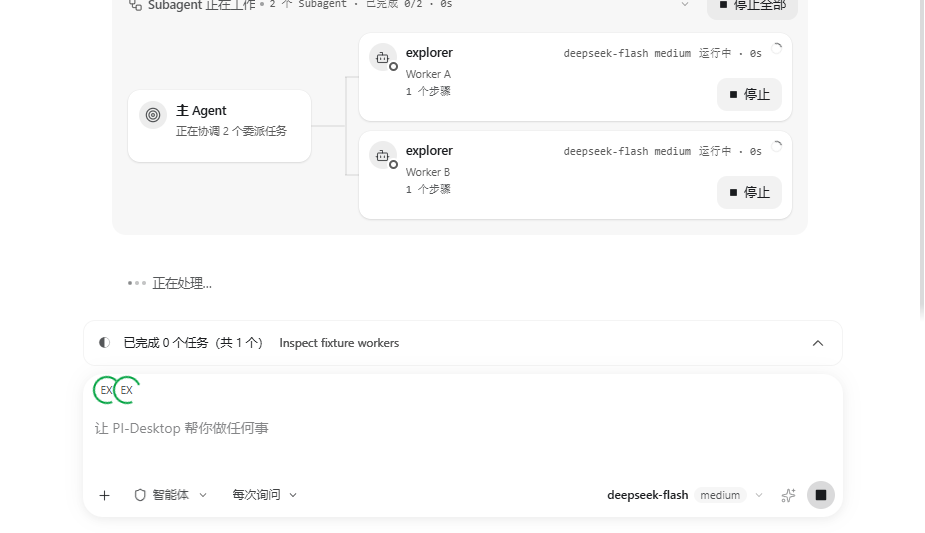
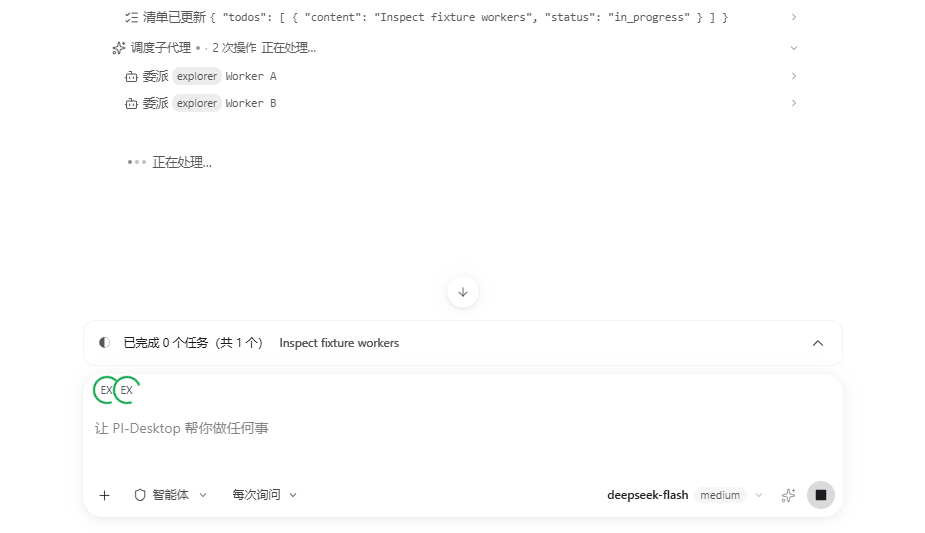
fix(composer): make subagent presentations mutually exclusive
When the composer bar is selected, keep each Task as an expandable tool
record instead of repeating its topology or worker transcript. Switching
back restores the existing cards without changing the underlying history.

Verify the transition on real running delegates, including after they
settle, and record both presentations in the localized copy and captures.

diff --git a/apps/desktop/src/features/chat/transcript/ActivityItems.tsx b/apps/desktop/src/features/chat/transcript/ActivityItems.tsx
@@ -30,6 +30,7 @@ type ActivityItemsProps = {
 
 type ActivityItemBlockProps = Omit<ActivityItemsProps, "items" | "delegateItems" | "delegationStatuses" | "delegationTimings"> & {
   block: RenderBlock<AssistantActivityItem>;
+  groupDelegates: boolean;
   topologyItem?: AssistantActivityItem;
   delegateItems?: DelegationActivityItem[];
   delegationStatuses?: ReadonlyMap<string, SubagentOutcome>;
@@ -37,7 +38,7 @@ type ActivityItemBlockProps = Omit<ActivityItemsProps, "items" | "delegateItems"
 };
 
 const ActivityItemBlock = memo(function ActivityItemBlock({
-  block, isActive, live, topologyItem,
+  block, isActive, live, groupDelegates, topologyItem,
   delegateItems, delegationStatuses, delegationTimings, onUserInteraction,
   collapseThinking,
 }: ActivityItemBlockProps) {
@@ -45,7 +46,7 @@ const ActivityItemBlock = memo(function ActivityItemBlock({
     // The topology predicate narrows to all tools, but a false result can still
     // be an ordinary tool. Do not exclude tools from the remaining branches.
     const delegation = Boolean(isDelegationActivityItem(item));
-    if (delegation) {
+    if (groupDelegates && delegation) {
       if (item !== topologyItem || !delegateItems) return null;
       return <SubagentTopology
         key="subagent-topology"
@@ -72,7 +73,7 @@ const ActivityItemBlock = memo(function ActivityItemBlock({
         imagesInTurn
         message={item.message}
         onUserInteraction={onUserInteraction}
-        {...(item.delegate ? { delegate: item.delegate } : {})}
+        {...(!delegation && item.delegate ? { delegate: item.delegate } : {})}
       />;
     }
     if (item.kind === "hostedSearch") return <HostedSearchRow
@@ -106,6 +107,7 @@ export const ActivityItems = memo(function ActivityItems({ items, ...context }: 
       block={block}
       isActive={context.isActive}
       live={context.live}
+      groupDelegates={topologyItem !== undefined}
       topologyItem={ownsTopology ? topologyItem : undefined}
       delegateItems={ownsTopology ? context.delegateItems : undefined}
       delegationStatuses={ownsTopology ? context.delegationStatuses : undefined}

diff --git a/apps/desktop/src/features/chat/transcript/ActivityGroup.tsx b/apps/desktop/src/features/chat/transcript/ActivityGroup.tsx
@@ -22,6 +22,7 @@ import type {
 } from "@pi-desktop/shared";
 import {
   PROVIDER_RETRY_MAX_RETRIES,
+  resolveSubagentStyle,
 } from "@pi-desktop/shared";
 import type {
   AssistantActivityItem,
@@ -218,7 +219,8 @@ export const ActivityGroup = memo(function ActivityGroup({
   const collapseThinking = useAppStore((state) => resolveAutoCollapseThinking(state.settings));
   const { t } = useTranslation();
   const detailsId = useId();
-  const rawDelegateItems = useMemo(() => items.filter(isDelegationActivityItem), [items]);
+  const inlineTopology = useAppStore((state) => resolveSubagentStyle(state.settings) === "transcript");
+  const rawDelegateItems = useMemo(() => inlineTopology ? items.filter(isDelegationActivityItem) : [], [inlineTopology, items]);
   const delegatesRef = useRef(rawDelegateItems);
   const delegateItems = reuseReferences(delegatesRef.current, rawDelegateItems);
   delegatesRef.current = delegateItems;
@@ -227,10 +229,7 @@ export const ActivityGroup = memo(function ActivityGroup({
   const tools = reuseReferences(toolsRef.current, rawTools);
   toolsRef.current = tools;
   const delegationItems = useMemo(() => tools.map((message) => ({ kind: "tool" as const, message })), [tools]);
-  // One delegation reads the same as five: the card is how a delegation is
-  // presented, not a treatment reserved for fan-out. A lone `Task` rendered as
-  // an ordinary tool row hid the outcome, runtime and step count that the card
-  // states outright, and made the same work look like two different features.
+  // A lone delegate receives the same topology treatment as fan-out in transcript mode.
   const hasSubagentTopology = delegateItems.length > 0;
   // `Task` rows only ever say "running"; the turn's TaskWait/TaskList/TaskStop
   // rows carry how each delegate actually ended (ADR 0089). When the lifecycle

diff --git a/packages/shared/src/types/settings.ts b/packages/shared/src/types/settings.ts
@@ -40,11 +40,13 @@ export type CloseBehavior = "ask" | "tray" | "quit";
 export type TranscriptDisplayMode = "flat" | "command-first" | "fully-folded";
 
 /**
- * Where a running subagent is presented while it works (issue #2549).
+ * How subagents are presented (issue #2549).
  *
- * - `transcript`: delegates stay in the conversation transcript only.
- * - `bar`: a session-scoped avatar row above the composer mirrors the running
- *   delegates; topology cards, lifecycle rows and Work panel tabs stay put.
+ * - `transcript` (default): delegation cards show the topology in the transcript.
+ * - `bar`: a session-scoped avatar row appears above the composer while work is
+ *   active. The transcript uses ordinary expandable tool rows in place of cards,
+ *   including after settlement. Tool history, lifecycle rows and Work panel
+ *   records remain available.
  *
  * Presentation only: neither value changes what a delegate does or what the
  * host executes.
@@ -270,11 +272,8 @@ export type AppSettings = {
    */
   inlineVisualizations?: boolean;
   /**
-   * How a running subagent is presented (issue #2549): `transcript` keeps
-   * delegates in the conversation transcript only, `bar` adds a session-scoped
-   * avatar row above the composer. Absent and any unknown value read as
-   * `transcript`, so the field is written only when the user picks the bar;
-   * reading a missing field never persists the default. Presentation only.
+   * Subagent presentation; see `SubagentStyle`. An absent or unknown value
+   * reads as `transcript`; reading a missing field never persists the default.
    */
   subagentStyle?: SubagentStyle;
   /**

diff --git a/packages/shared/src/changelog-fr.ts b/packages/shared/src/changelog-fr.ts
@@ -5,7 +5,7 @@ export const frEntries: ChangelogEntry[] = [
     version: "0.24.0",
     date: "2026-11-20",
     highlights: [
-      "Activez la barre au-dessus du champ de saisie dans les réglages de conversation pour consulter l’état, la consommation et le journal des sous-agents sans faire défiler la conversation.",
+      "Dans les réglages de conversation, choisissez Barre de saisie pour suivre les sous-agents actifs au-dessus du champ de saisie. Les appels d’outils se présentent sous forme de lignes dépliables plutôt que de fiches, même après la fin de l’exécution.",
       "Sur une nouvelle installation, le plugin intégré Améliorations officielles génère automatiquement les titres de session ; les suggestions, l'amélioration des brouillons et la mémoire IA restent désactivées jusqu'à ce que vous les activiez.",
       "Nouvelle tâche ouvre désormais une discussion temporaire hors de tout projet, et les conversations peuvent passer d'un projet à l'autre ou revenir en Discussion temporaire.",
       "Sur l'accueil vide, cliquez sur le nom du projet ou sur « temporairement » dans le titre pour changer de projet ; la destination sans projet s'appelle désormais partout Discussion temporaire.",

diff --git a/packages/shared/src/changelog-ko.ts b/packages/shared/src/changelog-ko.ts
@@ -5,7 +5,7 @@ export const koEntries: ChangelogEntry[] = [
     version: "0.24.0",
     date: "2026-11-20",
     highlights: [
-      "대화 설정에서 입력창 표시줄을 선택하면 대화를 스크롤하지 않고도 하위 에이전트의 상태와 사용량을 확인하고 실행 기록을 열 수 있습니다.",
+      "대화 설정에서 입력창 표시줄을 선택하면 입력창 위에서 실행 중인 하위 에이전트를 확인할 수 있습니다. 대화에는 카드 대신 펼칠 수 있는 도구 호출 행이 표시되며, 실행이 끝나도 이 형식이 유지됩니다.",
       "새로 설치하면 기본 제공되는 공식 개선 플러그인이 세션 제목을 자동으로 만듭니다. 제안, 초안 개선, AI 메모리는 직접 켜기 전까지 꺼져 있습니다.",
       "새 작업이 이제 프로젝트 밖에서 임시 채팅으로 시작되며, 대화를 프로젝트 간에 옮기거나 임시 채팅으로 되돌릴 수 있습니다.",
       "빈 홈 화면 제목의 프로젝트 이름이나 \"임시\"를 클릭해 프로젝트를 전환할 수 있으며, 프로젝트가 없는 위치는 이제 어디서나 임시 채팅으로 표시됩니다.",

diff --git a/packages/shared/src/changelog-es.ts b/packages/shared/src/changelog-es.ts
@@ -5,7 +5,7 @@ export const esEntries: ChangelogEntry[] = [
     version: "0.24.0",
     date: "2026-11-20",
     highlights: [
-      "Activa la barra del cuadro de entrada en los ajustes de conversación para consultar el estado, el consumo y el registro de los subagentes sin desplazarte por el chat.",
+      "Elige Barra de entrada en los ajustes de conversación para seguir a los subagentes activos sobre el cuadro de entrada. La conversación muestra filas de herramientas desplegables en lugar de tarjetas de subagentes, incluso después de que terminen.",
       "En una instalación nueva, el complemento incluido Mejoras oficiales genera automáticamente los títulos de las sesiones; las sugerencias, la mejora de borradores y la memoria de IA siguen desactivadas hasta que las actives.",
       "Nueva tarea ahora inicia un chat temporal fuera de cualquier proyecto, y las conversaciones pueden moverse entre proyectos o volver a Chat temporal.",
       "En la página de inicio vacía, haz clic en el nombre del proyecto o en «temporal» del título para cambiar de proyecto; el destino sin proyecto ahora se llama Chat temporal en todas partes.",

diff --git a/packages/shared/src/changelog-pt-BR.ts b/packages/shared/src/changelog-pt-BR.ts
@@ -5,7 +5,7 @@ export const ptBREntries: ChangelogEntry[] = [
     version: "0.24.0",
     date: "2026-11-20",
     highlights: [
-      "Ative a barra acima do campo de mensagem nas configurações da conversa para ver o estado, o consumo e o histórico dos subagentes sem rolar o chat.",
+      "Selecione Barra de entrada nas configurações de conversa para acompanhar os subagentes ativos acima do campo de mensagem. A conversa mostra linhas expansíveis de ferramentas em vez de cartões de subagentes, mesmo após o fim da execução.",
       "Em uma instalação nova, o plugin incluído Melhorias oficiais gera automaticamente os títulos das sessões; sugestões, aprimoramento de rascunho e memória de IA continuam desligados até você ativá-los.",
       "Nova tarefa agora inicia um chat temporário fora de qualquer projeto, e as conversas podem ser movidas entre projetos ou de volta para Chat temporário.",
       "Na tela inicial vazia, clique no nome do projeto ou em \"temporariamente\" no título para trocar de projeto; o destino sem projeto agora se chama Chat temporário em todo lugar.",

diff --git a/packages/shared/src/changelog-de.ts b/packages/shared/src/changelog-de.ts
@@ -5,7 +5,7 @@ export const deEntries: ChangelogEntry[] = [
     version: "0.24.0",
     date: "2026-11-20",
     highlights: [
-      "Aktiviere in den Unterhaltungseinstellungen die Leiste über dem Eingabefeld, um Status, Verbrauch und Protokolle der Subagenten ohne Scrollen zu sehen.",
+      "Mit der Eingabeleiste in den Unterhaltungseinstellungen kannst du laufende Subagenten über dem Eingabefeld verfolgen. Im Verlauf erscheinen auch nach Abschluss aufklappbare Werkzeugzeilen statt Subagentenkarten.",
       "Bei einer Neuinstallation erzeugt das mitgelieferte Plugin „Offizielle Erweiterungen“ Sitzungstitel automatisch; Vorschläge, Entwurfsverbesserung und KI-Gedächtnis bleiben aus, bis du sie einschaltest.",
       "Neue Aufgabe startet jetzt einen temporären Chat außerhalb von Projekten, und Unterhaltungen lassen sich zwischen Projekten oder zurück in den temporären Chat verschieben.",
       "Auf der leeren Startseite wechselst du das Projekt per Klick auf den Projektnamen oder „temporär“ im Titel; das projektlose Ziel heißt jetzt überall Temporärer Chat.",

diff --git a/packages/shared/src/changelog-tr.ts b/packages/shared/src/changelog-tr.ts
@@ -5,7 +5,7 @@ export const trEntries: ChangelogEntry[] = [
     version: "0.24.0",
     date: "2026-11-20",
     highlights: [
-      "Sohbeti kaydırmadan alt ajanların durumunu, kullanımını ve kayıtlarını görmek için konuşma ayarlarından giriş alanı çubuğunu seçin.",
+      "Etkin alt ajanları giriş alanının üzerinde takip etmek için sohbet ayarlarında Giriş çubuğunu seçin. Çalışma sona erdikten sonra da sohbette alt ajan kartları yerine genişletilebilir araç satırları görünür.",
       "Yeni kurulumda, birlikte gelen Resmi geliştirmeler eklentisi oturum başlıklarını otomatik oluşturur; öneriler, taslak iyileştirme ve yapay zekâ belleği siz açana kadar kapalı kalır.",
       "Yeni görev artık herhangi bir projenin dışında geçici bir sohbet başlatır ve sohbetler projeler arasında ya da Geçici sohbete geri taşınabilir.",
       "Boş ana sayfada projeyi değiştirmek için başlıktaki proje adına veya \"geçici\" sözcüğüne tıklayın; projesiz hedefin adı artık her yerde Geçici sohbet.",

diff --git a/packages/shared/src/changelog-en.ts b/packages/shared/src/changelog-en.ts
@@ -5,7 +5,7 @@ export const enEntries: ChangelogEntry[] = [
     version: "0.24.0",
     date: "2026-11-20",
     highlights: [
-      "Choose Composer bar in Conversation settings to track subagents, inspect usage and open their records without scrolling the transcript.",
+      "In Conversation settings, choose Composer bar to track active subagents above the input. The transcript shows expandable tool rows instead of subagent cards, even after a run ends.",
       "On a fresh install, session titles are generated automatically by the bundled Official enhancements plugin; suggestions, draft enhancement and AI memory stay off until you turn them on.",
       "New task now starts a temporary chat outside any project, and conversations can move between projects or back to Temporary chat.",
       "On the empty home, click the project name or \"temporarily\" in the title to switch projects; the project-free destination is now called Temporary chat everywhere.",

diff --git a/packages/shared/src/changelog-zh-CN.ts b/packages/shared/src/changelog-zh-CN.ts
@@ -5,7 +5,7 @@ export const zhCNEntries: ChangelogEntry[] = [
     version: "0.24.0",
     date: "2026-11-20",
     highlights: [
-      "在「设置 → 对话」选择「输入框贴靠条」，无需滚动对话即可查看子代理状态、用量和运行记录。",
+      "在对话设置中选择「输入框贴靠条」，即可在输入框上方查看运行中的子代理。对话内以可展开的工具调用行代替子代理卡片，运行结束后也保持此样式。",
       "全新安装时，内置的「官方增强」插件会自动生成会话标题；建议、草稿增强和 AI 记忆仍需手动开启。",
       "「新任务」现在会在项目之外开启临时对话，对话也可以在项目之间移动，或移回临时对话。",
       "空白首页标题中的项目名或「临时」可直接点击切换项目；不属于任何项目的位置统一称为「临时对话」。",

diff --git a/packages/shared/src/changelog-zh-TW.ts b/packages/shared/src/changelog-zh-TW.ts
@@ -5,7 +5,7 @@ export const zhTWEntries: ChangelogEntry[] = [
     version: "0.24.0",
     date: "2026-11-20",
     highlights: [
-      "在對話設定中選擇輸入框貼靠列，不用捲動對話就能查看子代理狀態、用量與執行記錄。",
+      "在對話設定中選擇「輸入框貼靠列」，即可在輸入框上方查看執行中的子代理。對話內會以可展開的工具呼叫列取代子代理卡片，執行結束後也維持此樣式。",
       "全新安裝時，內建的「官方增強」外掛會自動產生對話標題；建議、草稿增強和 AI 記憶仍需手動開啟。",
       "「新任務」現在會在專案之外開啟臨時對話，對話也可以在專案之間移動，或移回臨時對話。",
       "空白首頁標題中的專案名稱或「臨時」可直接點選切換專案；不屬於任何專案的位置統一稱為「臨時對話」。",
